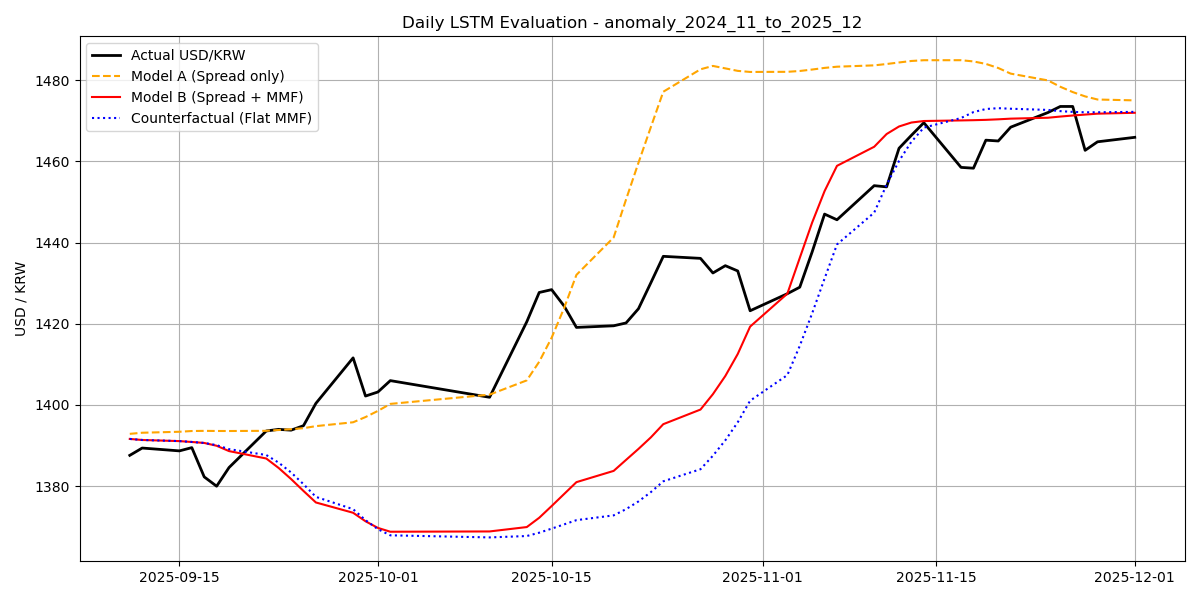
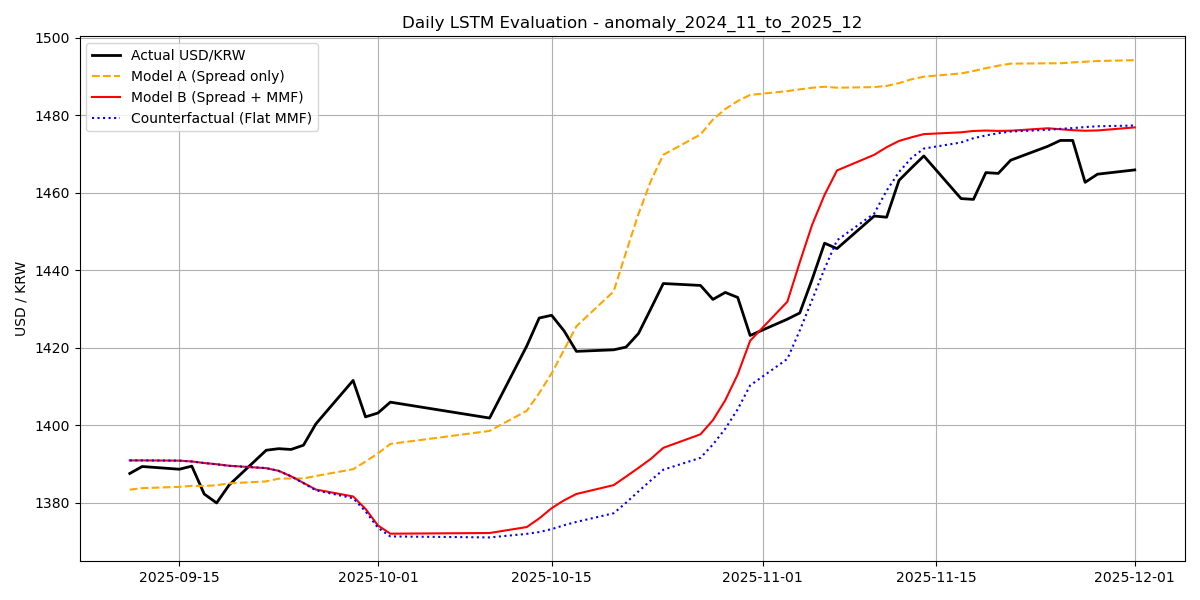
feat: Update LSTM validation results and enhance hyperparameter tuning functionality

diff --git a/analysis/lstm_validation_daily/train_eval_periods.py b/analysis/lstm_validation_daily/train_eval_periods.py
@@ -1,5 +1,6 @@
 import os
 import json
+from itertools import product
 import numpy as np
 import pandas as pd
 import torch
@@ -12,6 +13,7 @@ import matplotlib.pyplot as plt
 
 torch.manual_seed(42)
 np.random.seed(42)
+torch.set_num_threads(1)
 
 
 class ExRateLSTM(nn.Module):
@@ -50,7 +52,92 @@ def inverse_target(scaler: StandardScaler, y_scaled: np.ndarray, n_features: int
     return scaler.inverse_transform(dummy)[:, 0]
 
 
-def run_one_period(df_period: pd.DataFrame, period_name: str, out_dir: str):
+def split_train_val(x_train: np.ndarray, y_train: np.ndarray, val_ratio: float = 0.2):
+    n = len(x_train)
+    val_n = max(20, int(n * val_ratio))
+    val_n = min(val_n, n - 20)
+    train_n = n - val_n
+    return x_train[:train_n], y_train[:train_n], x_train[train_n:], y_train[train_n:]
+
+
+def tune_hyperparams(
+    x_train: np.ndarray,
+    y_train: np.ndarray,
+    input_dim: int,
+    period_name: str,
+    model_name: str,
+):
+    x_fit, y_fit, x_val, y_val = split_train_val(x_train, y_train)
+
+    # Cap tuning sample size for speed, then retrain on full train set with the best config.
+    max_tune_train = 1200
+    max_tune_val = 300
+    if len(x_fit) > max_tune_train:
+        x_fit = x_fit[-max_tune_train:]
+        y_fit = y_fit[-max_tune_train:]
+    if len(x_val) > max_tune_val:
+        x_val = x_val[-max_tune_val:]
+        y_val = y_val[-max_tune_val:]
+
+    if period_name.startswith("full_"):
+        grid = {
+            "hidden_dim": [16, 32],
+            "num_layers": [1],
+            "lr": [0.001],
+            "num_epochs": [30],
+            "batch_size": [32],
+        }
+    else:
+        grid = {
+            "hidden_dim": [16, 32],
+            "num_layers": [1],
+            "lr": [0.001],
+            "num_epochs": [50, 90],
+            "batch_size": [32],
+        }
+
+    best = None
+    best_rmse = float("inf")
+
+    for hidden_dim, num_layers, lr, num_epochs, batch_size in product(
+        grid["hidden_dim"],
+        grid["num_layers"],
+        grid["lr"],
+        grid["num_epochs"],
+        grid["batch_size"],
+    ):
+        loader = DataLoader(
+            TensorDataset(torch.FloatTensor(x_fit), torch.FloatTensor(y_fit)),
+            batch_size=batch_size,
+            shuffle=True,
+        )
+
+        model = ExRateLSTM(input_dim=input_dim, hidden_dim=hidden_dim, num_layers=num_layers)
+        criterion = nn.MSELoss()
+        optimizer = torch.optim.Adam(model.parameters(), lr=lr)
+        train_model(model, loader, criterion, optimizer, num_epochs=num_epochs)
+
+        model.eval()
+        with torch.no_grad():
+            pred_val = model(torch.FloatTensor(x_val)).numpy()
+
+        rmse_val = float(np.sqrt(mean_squared_error(y_val, pred_val)))
+        if rmse_val < best_rmse:
+            best_rmse = rmse_val
+            best = {
+                "hidden_dim": hidden_dim,
+                "num_layers": num_layers,
+                "lr": lr,
+                "num_epochs": num_epochs,
+                "batch_size": batch_size,
+                "val_rmse_scaled": rmse_val,
+            }
+
+    print(f"[{period_name}] Best {model_name} params: {best}")
+    return best
+
+
+def run_one_period(df_period: pd.DataFrame, period_name: str, out_dir: str, enable_tuning: bool = True):
     # Baseline vs Proposed feature sets
     features_a = ["USD_KRW", "RATE_SPREAD_KOR_USA"]
     features_b = ["USD_KRW", "RATE_SPREAD_KOR_USA", "MMF_total"]
@@ -87,18 +174,47 @@ def run_one_period(df_period: pd.DataFrame, period_name: str, out_dir: str):
     x_b_train, y_b_train = x_b[:train_seq_len], y_b[:train_seq_len]
     x_b_test, y_b_test = x_b[train_seq_len:], y_b[train_seq_len:]
 
-    loader_a = DataLoader(TensorDataset(torch.FloatTensor(x_a_train), torch.FloatTensor(y_a_train)), batch_size=32, shuffle=True)
-    loader_b = DataLoader(TensorDataset(torch.FloatTensor(x_b_train), torch.FloatTensor(y_b_train)), batch_size=32, shuffle=True)
+    if enable_tuning:
+        best_a = tune_hyperparams(x_a_train, y_a_train, len(features_a), period_name, "Model A")
+        best_b = tune_hyperparams(x_b_train, y_b_train, len(features_b), period_name, "Model B")
+    else:
+        best_a = {
+            "hidden_dim": 32,
+            "num_layers": 1,
+            "lr": 0.001,
+            "num_epochs": 80,
+            "batch_size": 32,
+            "val_rmse_scaled": None,
+        }
+        best_b = {
+            "hidden_dim": 32,
+            "num_layers": 1,
+            "lr": 0.001,
+            "num_epochs": 80,
+            "batch_size": 32,
+            "val_rmse_scaled": None,
+        }
 
-    model_a = ExRateLSTM(input_dim=len(features_a))
-    model_b = ExRateLSTM(input_dim=len(features_b))
+    loader_a = DataLoader(
+        TensorDataset(torch.FloatTensor(x_a_train), torch.FloatTensor(y_a_train)),
+        batch_size=best_a["batch_size"],
+        shuffle=True,
+    )
+    loader_b = DataLoader(
+        TensorDataset(torch.FloatTensor(x_b_train), torch.FloatTensor(y_b_train)),
+        batch_size=best_b["batch_size"],
+        shuffle=True,
+    )
+
+    model_a = ExRateLSTM(input_dim=len(features_a), hidden_dim=best_a["hidden_dim"], num_layers=best_a["num_layers"])
+    model_b = ExRateLSTM(input_dim=len(features_b), hidden_dim=best_b["hidden_dim"], num_layers=best_b["num_layers"])
 
     criterion = nn.MSELoss()
-    opt_a = torch.optim.Adam(model_a.parameters(), lr=0.001)
-    opt_b = torch.optim.Adam(model_b.parameters(), lr=0.001)
+    opt_a = torch.optim.Adam(model_a.parameters(), lr=best_a["lr"])
+    opt_b = torch.optim.Adam(model_b.parameters(), lr=best_b["lr"])
 
-    train_model(model_a, loader_a, criterion, opt_a)
-    train_model(model_b, loader_b, criterion, opt_b)
+    train_model(model_a, loader_a, criterion, opt_a, num_epochs=best_a["num_epochs"])
+    train_model(model_b, loader_b, criterion, opt_b, num_epochs=best_b["num_epochs"])
 
     model_a.eval()
     model_b.eval()
@@ -154,6 +270,8 @@ def run_one_period(df_period: pd.DataFrame, period_name: str, out_dir: str):
         "mae_model_a": mae_a,
         "mae_model_b": mae_b,
         "better_model": "B" if rmse_b < rmse_a else "A",
+        "best_params_a": best_a,
+        "best_params_b": best_b,
         "plot": plot_path,
     }
 
@@ -177,7 +295,8 @@ def run_experiment():
         period_df = period_df.reset_index(drop=True)
         if len(period_df) < 120:
             raise ValueError(f"{name}: not enough rows ({len(period_df)}) for daily LSTM with seq_length=30")
-        results.append(run_one_period(period_df, name, out_dir))
+        use_tuning = name != "full_2010_2025"
+        results.append(run_one_period(period_df, name, out_dir, enable_tuning=use_tuning))
 
     with open(f"{out_dir}/results.json", "w", encoding="utf-8") as f:
         json.dump(results, f, ensure_ascii=False, indent=2)
@@ -195,6 +314,8 @@ def run_experiment():
         lines.append(f"MAE A: {r['mae_model_a']:.2f}")
         lines.append(f"MAE B: {r['mae_model_b']:.2f}")
         lines.append(f"Better: Model {r['better_model']}")
+        lines.append(f"Best Params A: {r['best_params_a']}")
+        lines.append(f"Best Params B: {r['best_params_b']}")
         lines.append(f"Plot: {r['plot']}")
         lines.append("")
 